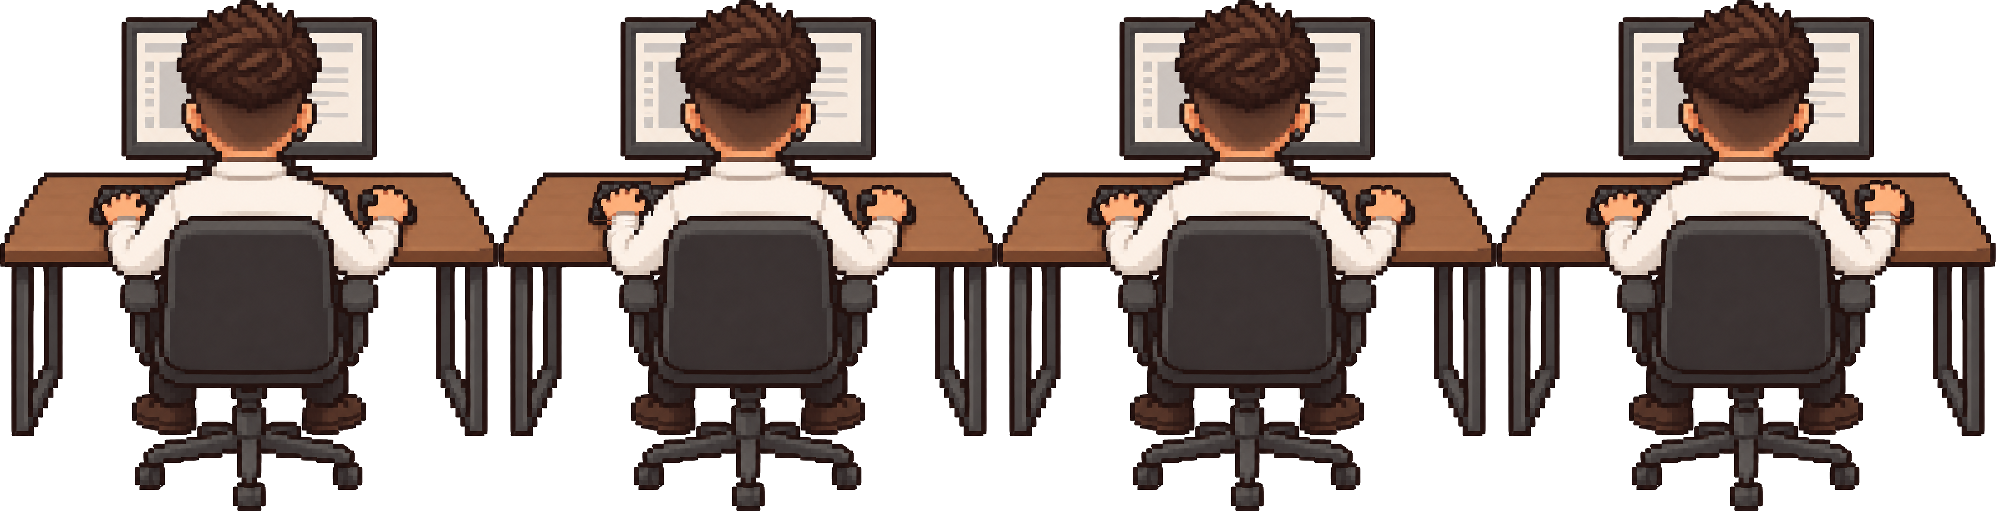
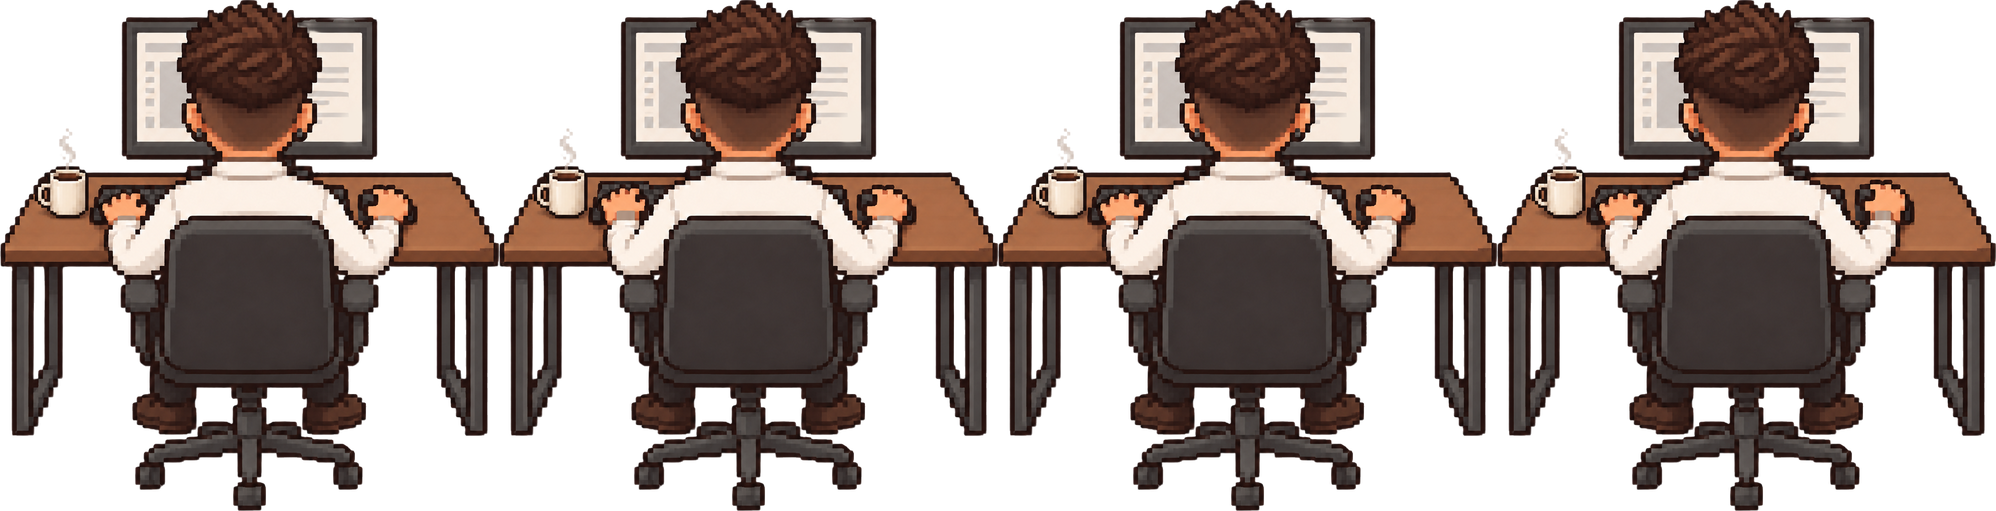
Add files via upload

diff --git a/index.html b/index.html
@@ -47,7 +47,7 @@ a{color:#454A8C}a:hover{color:#2D315F}
 .scene{letter-spacing:-0.03em}
 .bubble-name,.bubble-text,.mute-text,.clock,.bill,.pop,.lvl,.rc-title,.rc-lead,.rc-amount,.ic-title,.ic-rush b,.key,.ic-keylabel,.ic-noise-label,.kbd,.hud{letter-spacing:normal}
 /* Press Start 2P has a full-width space: tighten word gaps so they don't read as double spaces */
-.rc-lead,.rc-amount,.rc-title,.ic-title,.ic-rush b,.hud,.bubble-text,.ic-noise-label{word-spacing:-0.5em}
+.rc-lead,.rc-amount,.rc-title,.ic-title,.ic-rush b,.hud,.bubble-text,.ic-noise-label{word-spacing:-0.35em}
 /* textured pixel gradients: Bayer-dithered strips, each pixel shown as a crisp 4px block */
 .bgtex{position:absolute;top:0;left:0;right:0;bottom:0;pointer-events:none;background-repeat:repeat-x;background-size:32px 100%;image-rendering:pixelated}
 .bg-day{background-image:url(assets/bg-day.png)}
@@ -56,9 +56,17 @@ a{color:#454A8C}a:hover{color:#2D315F}
 .topbar{width:100%;box-sizing:border-box;display:grid;grid-template-columns:minmax(0,1fr) auto minmax(0,1fr);align-items:center;column-gap:max(24px,3vw);row-gap:clamp(12px,2.2vh,22px);position:relative;z-index:3}
 .toolbar{display:flex;align-items:center;gap:6px;justify-self:start;min-width:0}
 .title{margin-top:clamp(22px,3.4vh,40px) !important}
-.theme-seg{display:inline-flex;gap:2px;padding:3px;border-radius:999px;box-shadow:inset 0 0 0 1.5px var(--ink-soft)}
+.theme-seg{display:inline-flex;gap:2px;padding:3px;border-radius:999px;background:var(--seg-bg)}
 .tbtn{display:inline-flex;align-items:center;justify-content:center;min-width:36px;height:36px;padding:0 10px;border:0;border-radius:999px;background:transparent;color:var(--ink);font-family:'Google Sans Flex',sans-serif;font-weight:600;font-size:12px;letter-spacing:-0.03em;text-transform:uppercase;cursor:pointer}
-.tbtn:hover{background:var(--ink-soft)}
+.tbtn{box-sizing:border-box;width:36px;padding:0 !important;border:1.5px solid transparent !important;transition:background .15s,color .15s}
+.tbtn svg *{transition:fill .15s}
+/* selected time of day: its own little sky — gradient fill, reversed gradient rim, filled icon */
+.tbtn:not(.on):hover{background:var(--ink-soft)}
+.t-day{--h-top:#A6C1F8;--h-bot:#D8DFEC;--h-icon:#F2DB47}
+.t-sunset{--h-top:#F8D0A6;--h-bot:#C997CC;--h-icon:#B45674}
+.t-night{--h-top:#0B032E;--h-bot:#59507F;--h-icon:#F9DC8D}
+.tbtn.tbtn.on{color:var(--h-icon);background:linear-gradient(180deg,var(--h-top),var(--h-bot)) padding-box,linear-gradient(180deg,var(--h-bot),var(--h-top)) border-box}
+.t-day.on circle,.t-night.on path,.t-sunset.on path:first-child{fill:currentColor}
 .tbtn.on{background:var(--ink);color:var(--on-ink)}
 .tbtn:focus-visible{outline:3px solid var(--ink);outline-offset:2px}
 .tbtn:disabled{opacity:.45;cursor:default}
@@ -132,7 +140,8 @@ a{color:#454A8C}a:hover{color:#2D315F}
 .key{display:inline-flex;align-items:center;justify-content:center;min-width:30px;height:30px;padding:0 8px;box-sizing:border-box;border:2px solid var(--ink);border-radius:6px;box-shadow:0 3px 0 var(--ink);font-family:'Press Start 2P',monospace;font-size:11px;color:var(--ink);background:var(--panel);vertical-align:middle}
 .key-sm{height:24px;font-size:9px;padding:0 6px;box-shadow:0 2px 0 var(--ink)}
 .key-wide{min-width:68px}
-.ic-keys{display:flex;align-items:center;justify-content:center;gap:8px}
+.ic-keys{display:flex;flex-wrap:wrap;align-items:center;justify-content:center;gap:8px}
+.ic-keyor{font-family:'Google Sans Flex',sans-serif;font-size:14px;color:var(--sub);margin:0 2px}
 .ic-keylabel{font-family:'Press Start 2P',monospace;font-size:11px;color:var(--ink);margin:0 12px 0 4px}
 .ic-touch{margin:0;display:none;font-size:15px;color:var(--sub)}
 .ic-noise{display:flex;align-items:center;gap:10px}
@@ -147,6 +156,7 @@ a{color:#454A8C}a:hover{color:#2D315F}
 .ic-btn-main{border:2px solid var(--ink);background:var(--ink);color:var(--on-ink)}
 .ic-btn-main:hover{background:var(--ink-hover);border-color:var(--ink-hover)}
 .ic-btn-ghost{border:2px solid var(--ink);background:transparent;color:var(--ink)}
+
 .ic-btn-ghost:hover{background:var(--ink-soft)}
 .ic-btn:focus-visible{outline:3px solid var(--ink);outline-offset:3px}
 @media (max-width:460px){.ic{padding:24px 20px 22px;gap:16px}.ic-title{font-size:18px}.ic-panel p{font-size:14px}.ic-tiles img{width:150px;height:63px}.ic-tile{width:104px;height:117px}.ic-bar{width:120px}}
@@ -178,7 +188,7 @@ a{color:#454A8C}a:hover{color:#2D315F}
 .scene{height:100svh;min-height:0 !important}
 .spacer{min-height:8px !important}
 .spot{width:min(300px,78vw) !important;filter:blur(12px) !important}
-.toolbar{gap:2px}.mute{padding:0 10px}.tbtn{min-width:32px;height:32px;padding:0 8px}
+.toolbar{gap:2px}.mute{padding:0 10px}.tbtn{min-width:32px;width:32px;height:32px;padding:0 8px}
 .mute-text{display:none}
 .clock{padding-right:4px}
 .clock-label{display:none}
@@ -202,7 +212,7 @@ a{color:#454A8C}a:hover{color:#2D315F}
 
 <!-- Page markup: {{holes}} are filled from renderVals(), <sc-if>/<sc-for> are conditionals and loops -->
 <template id="dc-template">
-<main class="{{sceneClass}}" ref="{{setArena}}" tabIndex="0" onKeyDown="{{onKeyDown}}" onKeyUp="{{onKeyUp}}" onBlur="{{onBlur}}" onTouchStart="{{tStart}}" onTouchMove="{{tMove}}" onTouchEnd="{{tEnd}}" onTouchCancel="{{tEnd}}" style="--ink: {{ink}}; --on-ink: {{onInk}}; --ink-hover: {{inkHover}}; --ink-soft: {{inkSoft}}; --sub: {{sub}}; position: relative; min-height: 100vh; overflow: hidden; box-sizing: border-box; background-color: {{bg}}; color: {{ink}}; font-family: 'Google Sans Flex', sans-serif; display: flex; flex-direction: column; align-items: center; padding: 28px 28px 0">
+<main class="{{sceneClass}}" ref="{{setArena}}" tabIndex="0" onKeyDown="{{onKeyDown}}" onKeyUp="{{onKeyUp}}" onBlur="{{onBlur}}" onTouchStart="{{tStart}}" onTouchMove="{{tMove}}" onTouchEnd="{{tEnd}}" onTouchCancel="{{tEnd}}" style="--ink: {{ink}}; --on-ink: {{onInk}}; --ink-hover: {{inkHover}}; --ink-soft: {{inkSoft}}; --sub: {{sub}}; --seg-bg: {{segBg}}; position: relative; min-height: 100vh; overflow: hidden; box-sizing: border-box; background-color: {{bg}}; color: {{ink}}; font-family: 'Google Sans Flex', sans-serif; display: flex; flex-direction: column; align-items: center; padding: 28px 28px 0">
 <sc-if value="{{bgDay}}" hint-placeholder-val="{{ true }}"><div class="bgtex bg-day" aria-hidden="true"></div></sc-if>
 <sc-if value="{{bgSunset}}" hint-placeholder-val="{{ false }}"><div class="bgtex bg-sunset" aria-hidden="true"></div></sc-if>
 <sc-if value="{{bgNight}}" hint-placeholder-val="{{ false }}"><div class="bgtex bg-night" aria-hidden="true"></div></sc-if>
@@ -240,7 +250,7 @@ a{color:#454A8C}a:hover{color:#2D315F}
 
 <h1 class="title" style="position: relative; z-index: 1; margin: 0; font-family: 'Instrument Serif', serif; font-weight: 400; font-size: clamp(76px, 15.5vw, 236px); line-height: 0.9; letter-spacing: -0.01em; color: {{titleColor}}; -webkit-text-stroke: 1.5px {{titleStroke}}; background-image: {{titleBg}}; -webkit-background-clip: text; background-clip: text; text-align: center; white-space: nowrap">COMING SOON</h1>
 
-<p style="position: relative; z-index: 1; margin: 30px 0 0; font-size: clamp(18px, 1.8vw, 26px); font-weight: 600; letter-spacing: -0.03em; line-height: 1.3; text-align: center; color: {{subtitleColor}}">Meanwhile, help me make some money</p>
+<p class="subtitle" style="position: relative; z-index: 1; margin: 30px 0 0; font-size: clamp(18px, 1.8vw, 26px); font-weight: 600; letter-spacing: -0.03em; line-height: 1.3; text-align: center; color: {{subtitleColor}}">Meanwhile, help me make some money</p>
 
 <div style="margin-top: 30px; min-height: 64px; display: flex; flex-wrap: wrap; align-items: center; justify-content: center; gap: 12px 20px; position: relative; z-index: 3">
 <sc-if value="{{showStart}}" hint-placeholder-val="{{ true }}">
@@ -322,7 +332,7 @@ a{color:#454A8C}a:hover{color:#2D315F}
 <p>Every landing makes noise, and it fades when you stay on the ground. Each time the meter hits the red zone you get a strike — 3 strikes and my wife wakes up.</p>
 </div>
 </sc-if>
-<div class="ic-keys keys-hint"><span class="key">←</span><span class="key">→</span><span class="ic-keylabel">Move</span><span class="key key-wide">Space</span><span class="ic-keylabel">Jump</span></div>
+<div class="ic-keys keys-hint"><span class="key">A</span><span class="key">D</span><span class="ic-keylabel">Move</span><span class="key key-wide">Space</span><span class="ic-keylabel">Jump</span></div>
 <p class="touch-hint ic-touch">Use the ◀ ▶ buttons to move and ▲ to jump</p>
 <div class="ic-actions">
 <button class="ic-btn ic-btn-main" type="button" onClick="{{go2}}">Let’s go</button>
@@ -706,20 +716,20 @@ class Component extends DCLogic {
     if (t === 'night') return {
       isNight: true,
       bg: '#221A46', bgClass: 'bg-night',
-      ink: '#E0BB54', onInk: '#1A1240', inkHover: '#ECCB72', inkSoft: 'rgba(224,187,84,.16)', sub: '#C4A75F', shadow: 'rgba(14,6,44,.45)',
+      ink: '#E0BB54', onInk: '#1A1240', inkHover: '#ECCB72', inkSoft: 'rgba(224,187,84,.16)', segBg: '#231A4A', sub: '#C4A75F', shadow: 'rgba(14,6,44,.45)',
       titleColor: '#E0BB54', titleStroke: '#E0BB54', titleBg: 'none', subtitleColor: '#E0BB54'
     };
     if (t === 'sunset') return {
       isNight: false,
       bg: '#B5A3E4', bgClass: 'bg-sunset',
-      ink: '#F6DCD8', onInk: '#5A4A9C', inkHover: '#FBE7C9', inkSoft: 'rgba(246,220,216,.22)', sub: '#F3D6D6', shadow: '#815A85',
+      ink: '#F6DCD8', onInk: '#5A4A9C', inkHover: '#FBE7C9', inkSoft: 'rgba(246,220,216,.22)', segBg: '#B9BFF8', sub: '#F3D6D6', shadow: '#815A85',
       titleColor: 'transparent', titleStroke: 'transparent', titleBg: 'linear-gradient(180deg, #EDD1EF 12%, #F3D6D6 50%, #FBE0B5 88%)',
       subtitleColor: '#F6DCD8'
     };
     return {
       isNight: false,
       bg: '#BFD0F2', bgClass: 'bg-day',
-      ink: '#454A8C', onInk: '#FFFFFF', inkHover: '#363B78', inkSoft: 'rgba(69,74,140,.1)', sub: '#6A70A6', shadow: '#B3C0DE',
+      ink: '#454A8C', onInk: '#FFFFFF', inkHover: '#363B78', inkSoft: 'rgba(69,74,140,.1)', segBg: '#BACFF9', sub: '#6A70A6', shadow: '#B3C0DE',
       titleColor: '#454A8C', titleStroke: '#454A8C', titleBg: 'none', subtitleColor: '#454A8C'
     };
   }
@@ -1066,7 +1076,7 @@ class Component extends DCLogic {
       dialog: !!s.dialog,
       bubbleClass: s.dialogOut ? 'bubble out' : 'bubble',
       avatarSrc: this.dialogAva,
-      ...(() => { const cur = this.themeName(); const o = {}; for (const [k, n] of [['day', 'Day'], ['sunset', 'Sunset'], ['night', 'Night']]) { o['t' + n + 'Cls'] = cur === k ? 'tbtn on' : 'tbtn'; o['t' + n + 'On'] = cur === k ? 'true' : 'false'; } return o; })(),
+      ...(() => { const cur = this.themeName(); const o = {}; for (const [k, n] of [['day', 'Day'], ['sunset', 'Sunset'], ['night', 'Night']]) { o['t' + n + 'Cls'] = 'tbtn t-' + k + (cur === k ? ' on' : ''); o['t' + n + 'On'] = cur === k ? 'true' : 'false'; } return o; })(),
       pickDay: this.pickDay, pickSunset: this.pickSunset, pickNight: this.pickNight,
       dialogShown: this.dialogLine.slice(0, s.dialogN || 0),
       dialogRest: this.dialogLine.slice(s.dialogN || 0),
@@ -1075,7 +1085,7 @@ class Component extends DCLogic {
       easyOn: s.level === 1 ? 'true' : 'false', hardOn: s.level === 2 ? 'true' : 'false',
       lvlName: s.level === 2 ? 'HARD' : 'EASY', lvlLower: s.level === 2 ? 'Hard' : 'Easy',
       intro: !!s.intro && !s.running,
-      sceneClass: s.running ? 'scene playing' : 'scene',
+      sceneClass: (s.running ? 'scene playing' : 'scene'),
       scoreText: this.fmt(s.score),
       bestText: this.fmt(s.level === 2 ? s.best2 : s.best1),
       level: s.level,
